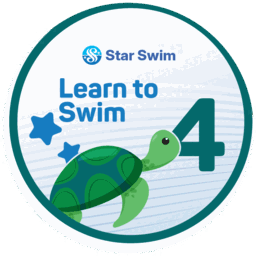
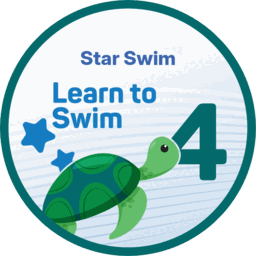
Cut every roundel to its own outline, and the wordmark alone
Both sets were cut to the artboard they were drawn on rather than to
the circle itself, which reads as a badge somebody has cropped.

The passport stickers: the sheet they came off is not level — the last
two sit 37px lower than the first six — and the circles are 709px, not
the 746 the row trimmed to. Cut by measuring each circle instead: every
one now trims to exactly 709x709 with white corners.

The MAS roundels had it too, 11px off centre inside their 3334px
artboard. Same fix, from the circle's own alpha bounds.

The lockup is the Star Swim wordmark alone now, no symbol, centred on
the footprint the old one had.

A test measures this rather than trusting the eye: the opaque part of
every roundel must fill its frame corner to corner and sit centred
within a pixel. Inset by 11 or pushed off centre by 5, it goes red —
both proved. It is the kind of fault that is obvious once seen and
invisible in a file listing.

Also drops a stale build number from supabase_grading_coach.sql's
confirm block, which was still telling the reader to deploy BUILD 19.

Claude-Session: https://claude.ai/code/session_01LoArcMuMRU34jKxy4rESEw

diff --git a/tests/files.test.js b/tests/files.test.js
@@ -229,6 +229,32 @@ step('every roundel is on disk, transparent, and web-sized', () => {
   }
 });
 
+// A roundel must BE the circle, not a circle sitting somewhere inside a
+// square. Both sets shipped cut to the artboard they were drawn on
+// rather than to their own outline -- the MAS ones 11px off centre, the
+// passport ones inset by 3 on every side and cut 37px too tall, because
+// the sticker sheet they came off is not level. It reads as a badge
+// that has been cropped, and nothing in the file name says so.
+step('every roundel is the circle, centred, filling its frame', () => {
+  const magick = (args) => require('child_process')
+    .execFileSync('convert', args, { encoding: 'utf8' }).trim();
+  for (const f of fs.readdirSync(path.join(ROOT, 'badges')).filter(f => !/-mark\.png$/.test(f))) {
+    const rel = path.join(ROOT, 'badges', f);
+    // The opaque part of the image, measured. Must fill the canvas
+    // corner to corner: anything less is margin, and margin off-centre
+    // is the fault this catches.
+    const box = magick([rel, '-alpha', 'extract', '-fuzz', '50%', '-trim',
+                        '-format', '%w %h %X %Y', 'info:']);
+    const [w, h, x, y] = box.split(/\s+/).map(v => parseInt(v, 10));
+    const size = parseInt(magick([rel, '-format', '%w', 'info:']), 10);
+    if (Math.abs(w - size) > 1 || Math.abs(h - size) > 1)
+      throw new Error(f + ': the circle is ' + w + 'x' + h + ' inside a ' + size
+        + 'px frame — it was cut to its artboard, not to its outline');
+    if (Math.abs(x) > 1 || Math.abs(y) > 1)
+      throw new Error(f + ': the circle sits at +' + x + '+' + y + ', not centred');
+  }
+});
+
 // And the migrations point at exactly these, by the path the apps use.
 for (const [file, n] of [['supabase_grading_mas_badges.sql', 8],
                          ['supabase_swim_passport_syllabus.sql', 9]]) {
